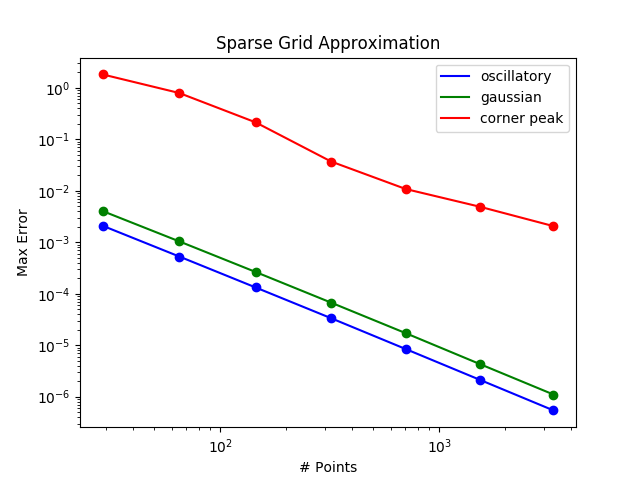
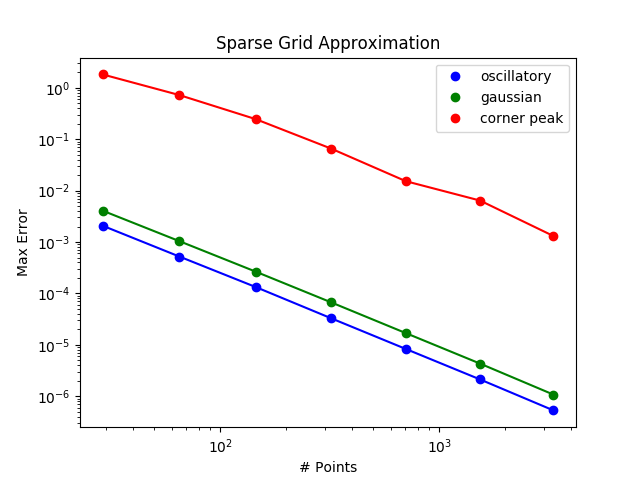
analytical hw done

diff --git a/day1_SparseGrid/SparseGridCode/analytical_examples/TASMANIAN_Python/homework.py b/day1_SparseGrid/SparseGridCode/analytical_examples/TASMANIAN_Python/homework.py
@@ -168,12 +168,12 @@ numPointsS2, errorStoreS2 = sparse_grid(iDim, iOut, which_basis, corner_peak, c,
 
 plt.xscale('log')
 plt.yscale('log')
-plt.plot(numPointsS, errorStoreS, color = 'b', label = "oscillatory")
-plt.plot(numPointsS1, errorStoreS1, color = 'g', label = "gaussian")
-plt.plot(numPointsS2, errorStoreS2, color = 'r', label = "corner peak")
-plt.plot(numPointsS, errorStoreS, 'bo')
-plt.plot(numPointsS1, errorStoreS1, 'go')
-plt.plot(numPointsS2, errorStoreS2, 'ro')
+plt.plot(numPointsS, errorStoreS, color = 'b')
+plt.plot(numPointsS1, errorStoreS1, color = 'g')
+plt.plot(numPointsS2, errorStoreS2, color = 'r')
+plt.plot(numPointsS, errorStoreS, 'bo', label = "oscillatory")
+plt.plot(numPointsS1, errorStoreS1, 'go', label = "gaussian")
+plt.plot(numPointsS2, errorStoreS2, 'ro', label = "corner peak")
 plt.title('Sparse Grid Approximation')
 plt.xlabel('# Points')
 plt.ylabel('Max Error')
@@ -193,12 +193,12 @@ numPointsAS2, errorStoreAS2 = adaptive_sparse_grid(iDim, iOut, fTol, which_basis
 
 plt.yscale('log')
 plt.xscale('log')
-plt.plot(numPointsAS, errorStoreAS, color = 'b', label = "oscillatory")
-plt.plot(numPointsAS1, errorStoreAS1, color = 'g', label = "gaussian")
-plt.plot(numPointsAS2, errorStoreAS2, color = 'r', label = "corner peak")
-plt.plot(numPointsAS, errorStoreAS, 'bo')
-plt.plot(numPointsAS1, errorStoreAS1, 'go')
-plt.plot(numPointsAS2, errorStoreAS2, 'ro')
+plt.plot(numPointsAS, errorStoreAS, color = 'b')
+plt.plot(numPointsAS1, errorStoreAS1, color = 'g')
+plt.plot(numPointsAS2, errorStoreAS2, color = 'r')
+plt.plot(numPointsAS, errorStoreAS, 'bo', label = "oscillatory")
+plt.plot(numPointsAS1, errorStoreAS1, 'go', label = "gaussian")
+plt.plot(numPointsAS2, errorStoreAS2, 'ro', label = "corner peak")
 plt.title('Adaptive Sparse Grid Approximation')
 plt.xlabel('# Points')
 plt.ylabel('Max Error')
